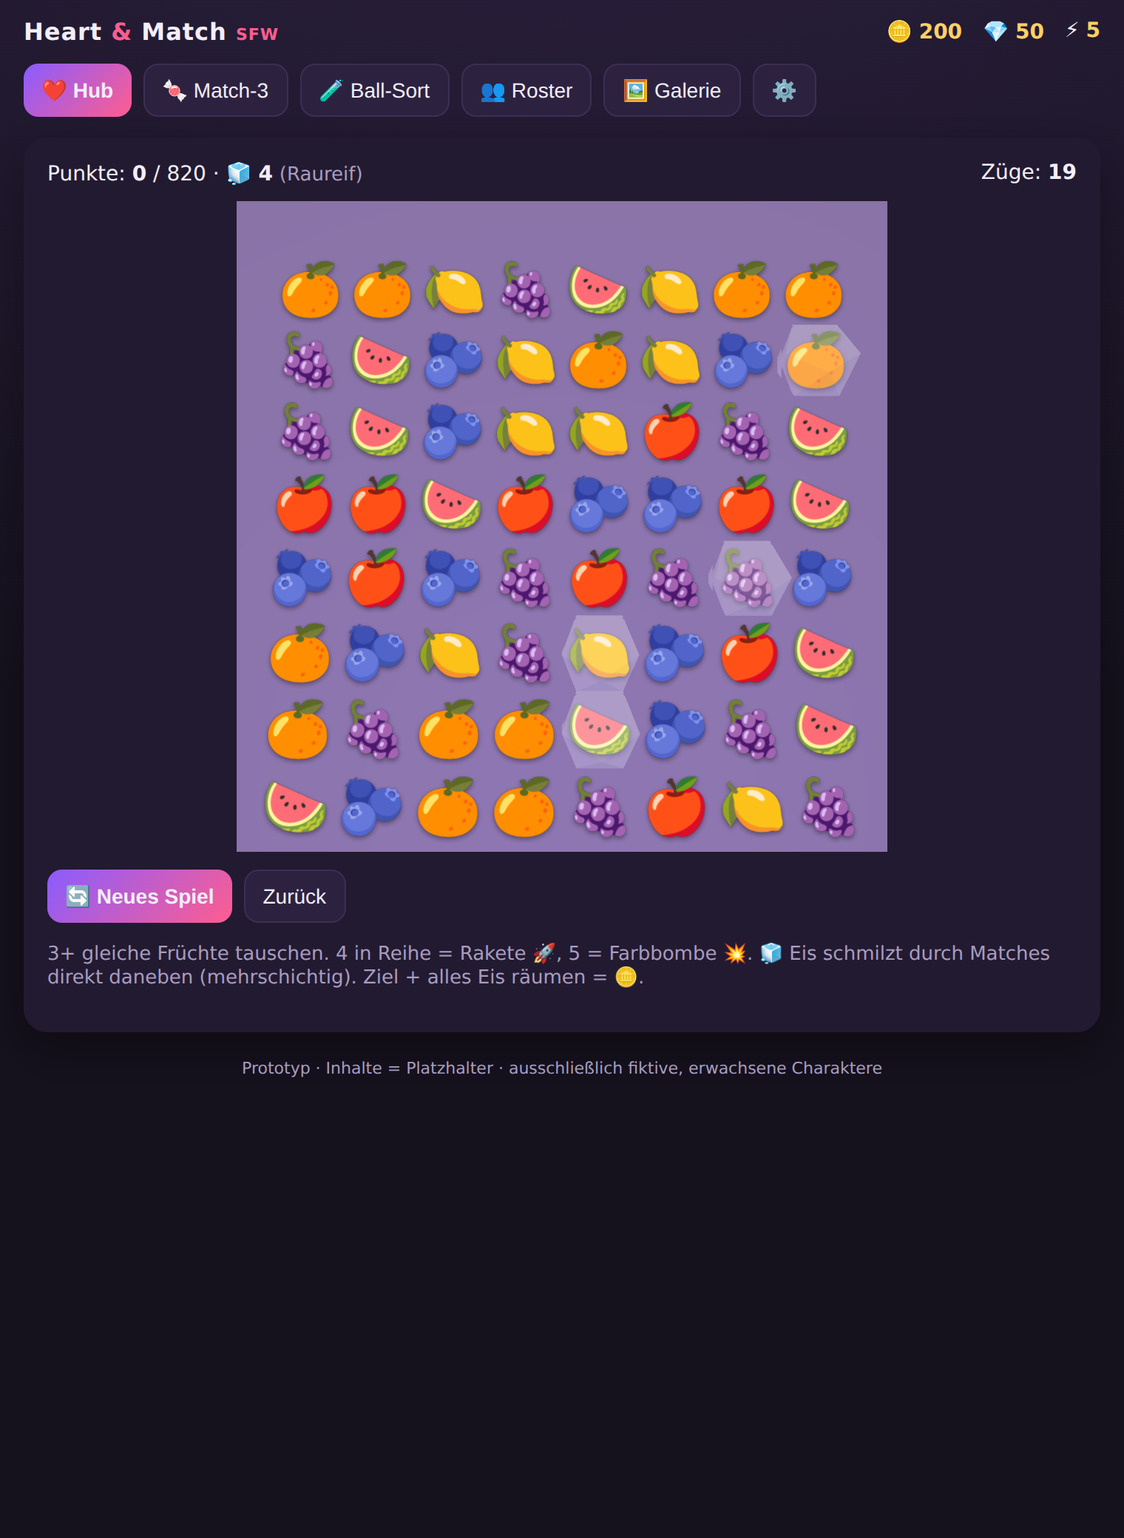
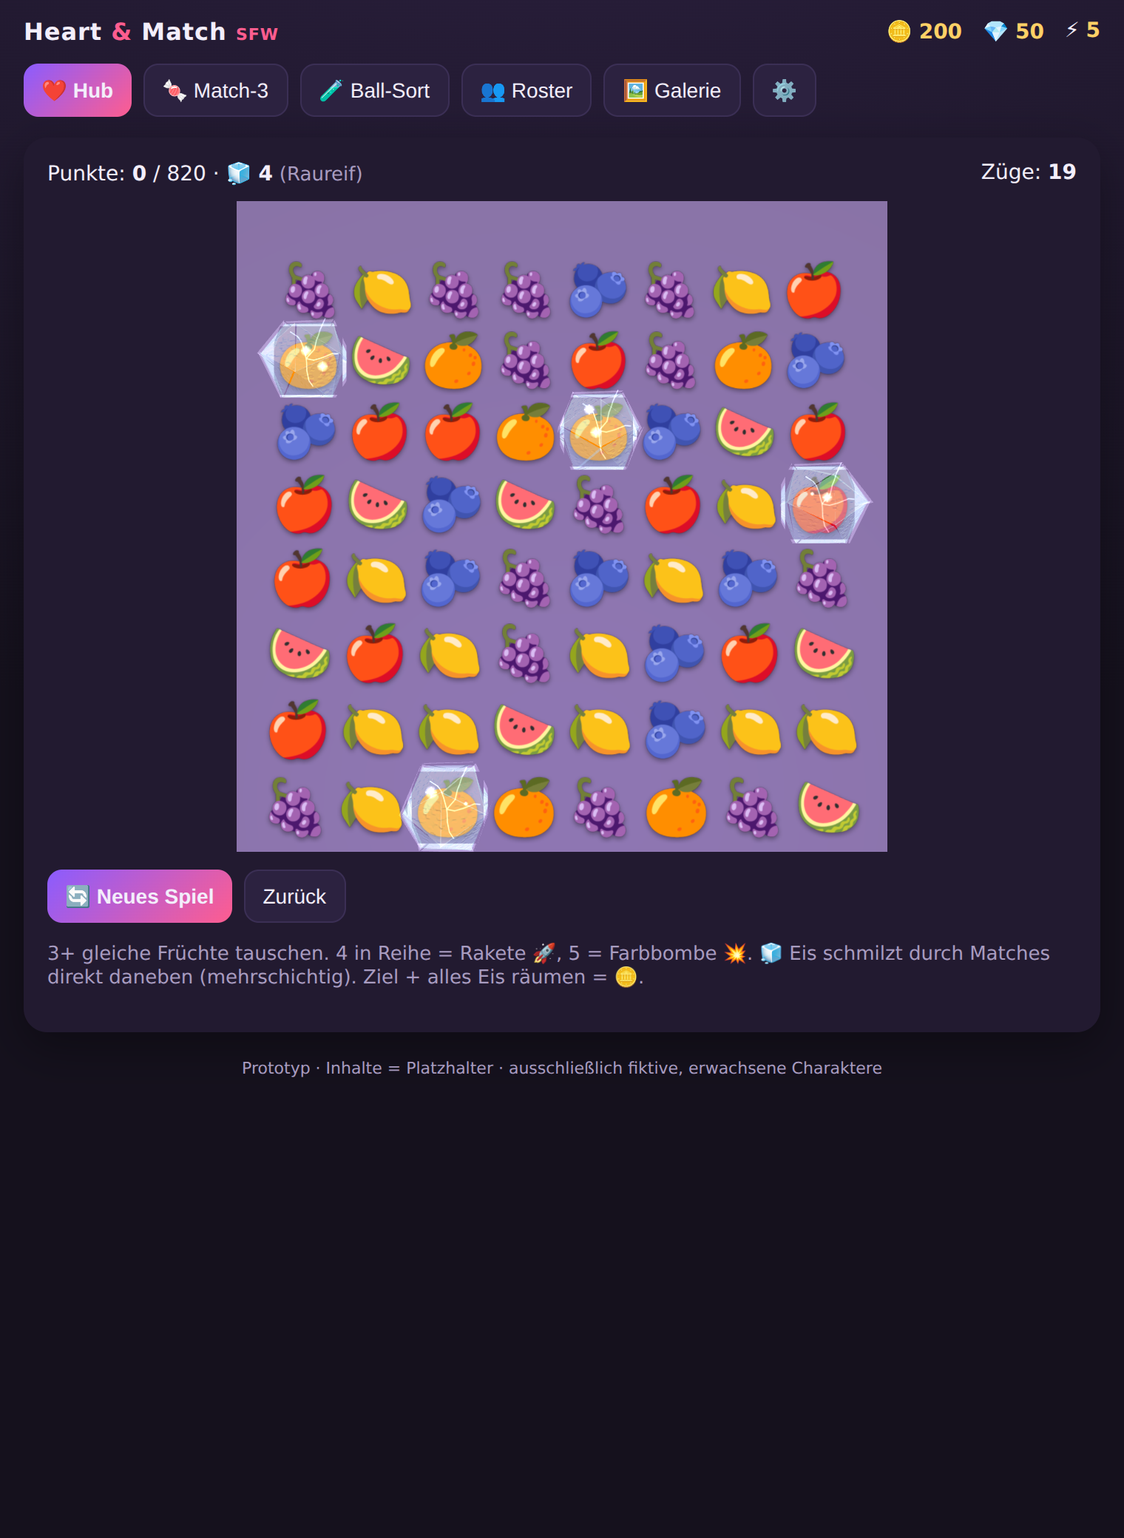
Redesign ice blocker (research-based) + architecture research dossier
Eis-Optik nach Recherche (Candy Crush Soda/Royal Match Spec + Three.js-Technik):
- Eis-Cube-Look: duenn=klar/blaeulich (Frucht sichtbar), dick=weiss/opak + Risse
- Facettierter Kristall (Frost-Bump), weisser Rim-Glanz (BackSide additiv),
  Riss-Overlay nimmt mit Schichten zu, Funkeln (Sparkle-Sprites)
- Shatter beim Brechen: Eis-Splitter (Tetraeder) + Schnee-Puff
- Level-Evolution bleibt: Raureif/Eis/Frost-Kristall/Permafrost

docs/RESEARCH_ARCHITECTURE.md: Code-/Engine-Architektur (Logik/View-Trennung,
Cascade-Pipeline, datengetriebene Level, deterministischer RNG, Tests) +
Live-Ops/Backend (Remote-Config, A/B, Analytics, Cloud-Save, Events, Addressables)

Changed region(s): [[0.2164, 0.1562, 0.773, 0.5625]]

diff --git a/web-prototype/games3d.js b/web-prototype/games3d.js
@@ -149,50 +149,146 @@ function newCell(type, x, y, dropFromTop, ice) {
   return cell;
 }
 
-// Eis-Stufen: ändern sich mit dem Level (Aussehen + max. Schichten/Zähigkeit).
-function iceStyleForLevel(lvl) {
-  if (lvl <= 2) return { key: "raureif",    label: "Raureif",       color: 0xdff1ff, emissive: 0x000000, detail: 0, scale: 0.70, maxLayers: 1, op: 0.28 };
-  if (lvl <= 4) return { key: "eis",        label: "Eis",           color: 0x9ad4ff, emissive: 0x113355, detail: 0, scale: 0.74, maxLayers: 2, op: 0.40 };
-  if (lvl <= 6) return { key: "frost",      label: "Frost-Kristall",color: 0xeaf6ff, emissive: 0x2277bb, detail: 1, scale: 0.78, maxLayers: 3, op: 0.44 };
-  return            { key: "permafrost", label: "Permafrost",    color: 0x6fa8ff, emissive: 0x1144aa, detail: 1, scale: 0.82, maxLayers: 4, op: 0.52 };
+// --- Canvas-Texturen für Eis (einmal erzeugt, geteilt) ---
+let _frostTex, _sparkleTex, _puffTex; const _crackTex = {};
+function frostTex() {
+  if (_frostTex) return _frostTex;
+  const s = 128, cv = document.createElement("canvas"); cv.width = cv.height = s;
+  const ctx = cv.getContext("2d"); ctx.fillStyle = "#808080"; ctx.fillRect(0, 0, s, s);
+  for (let i = 0; i < 1800; i++) { const v = (128 + (Math.random() - 0.5) * 190) | 0; ctx.fillStyle = `rgb(${v},${v},${v})`; ctx.fillRect((Math.random() * s) | 0, (Math.random() * s) | 0, 2, 2); }
+  _frostTex = new T.CanvasTexture(cv); _frostTex.wrapS = _frostTex.wrapT = T.RepeatWrapping; return _frostTex;
+}
+function crackTex(n) {
+  if (_crackTex[n]) return _crackTex[n];
+  const s = 256, cv = document.createElement("canvas"); cv.width = cv.height = s;
+  const ctx = cv.getContext("2d"); ctx.translate(s / 2, s / 2);
+  const branches = 2 + n * 2;
+  for (let b = 0; b < branches; b++) {
+    let a = Math.random() * 6.28, x = 0, y = 0; ctx.beginPath(); ctx.moveTo(0, 0);
+    const segs = 3 + ((Math.random() * 3) | 0);
+    for (let k = 0; k < segs; k++) { a += (Math.random() - 0.5) * 1.0; const len = 12 + Math.random() * 24; x += Math.cos(a) * len; y += Math.sin(a) * len; ctx.lineTo(x, y); }
+    ctx.lineWidth = 3.2; ctx.strokeStyle = "rgba(62,159,203,0.85)"; ctx.stroke();
+    ctx.lineWidth = 1.2; ctx.strokeStyle = "rgba(255,255,255,0.95)"; ctx.stroke();
+  }
+  _crackTex[n] = new T.CanvasTexture(cv); return _crackTex[n];
+}
+function sparkleTex() {
+  if (_sparkleTex) return _sparkleTex;
+  const s = 64, cv = document.createElement("canvas"); cv.width = cv.height = s; const ctx = cv.getContext("2d");
+  const g = ctx.createRadialGradient(s/2, s/2, 0, s/2, s/2, s/2);
+  g.addColorStop(0, "rgba(255,255,255,1)"); g.addColorStop(0.4, "rgba(220,245,255,0.5)"); g.addColorStop(1, "rgba(255,255,255,0)");
+  ctx.fillStyle = g; ctx.fillRect(0, 0, s, s);
+  ctx.strokeStyle = "rgba(255,255,255,0.9)"; ctx.lineWidth = 2;
+  ctx.beginPath(); ctx.moveTo(s/2, 4); ctx.lineTo(s/2, s-4); ctx.moveTo(4, s/2); ctx.lineTo(s-4, s/2); ctx.stroke();
+  _sparkleTex = new T.CanvasTexture(cv); return _sparkleTex;
+}
+function puffTex() {
+  if (_puffTex) return _puffTex;
+  const s = 64, cv = document.createElement("canvas"); cv.width = cv.height = s; const ctx = cv.getContext("2d");
+  const g = ctx.createRadialGradient(s/2, s/2, 0, s/2, s/2, s/2);
+  g.addColorStop(0, "rgba(255,255,255,0.9)"); g.addColorStop(1, "rgba(255,255,255,0)");
+  ctx.fillStyle = g; ctx.fillRect(0, 0, s, s); _puffTex = new T.CanvasTexture(cv); return _puffTex;
+}
+function jitter(geo, amt) {
+  const p = geo.attributes.position;
+  for (let i = 0; i < p.count; i++) p.setXYZ(i, p.getX(i) + (Math.random()-0.5)*amt, p.getY(i) + (Math.random()-0.5)*amt, p.getZ(i) + (Math.random()-0.5)*amt);
+  geo.computeVertexNormals();
 }
 
-// Eis-Blocker: durchscheinende Hülle um die Frucht; taut Schicht für Schicht durch benachbarte Matches.
+// Eis-Stufen: ändern sich mit dem Level (Aussehen + max. Schichten/Zähigkeit).
+function iceStyleForLevel(lvl) {
+  if (lvl <= 2) return { key: "raureif",    label: "Raureif",        emissive: 0x000000, detail: 0, scale: 0.74, maxLayers: 1 };
+  if (lvl <= 4) return { key: "eis",        label: "Eis",            emissive: 0x113355, detail: 0, scale: 0.76, maxLayers: 2 };
+  if (lvl <= 6) return { key: "frost",      label: "Frost-Kristall", emissive: 0x2277bb, detail: 1, scale: 0.80, maxLayers: 3 };
+  return              { key: "permafrost", label: "Permafrost",     emissive: 0x1144aa, detail: 1, scale: 0.84, maxLayers: 4 };
+}
+
+// Eis-Blocker nach Recherche-Spec: dünn=klar/bläulich (Frucht sichtbar), dick=weiß/opak + viele Risse.
+// Teile: facettierter Kern-Kristall (Frost-Bump) + weißer Rim-Glanz + Riss-Overlay + Funkeln.
 function setIce(cell, layers, style) {
   cell.ice = layers;
   if (style) cell.iceStyle = style;
   const st = cell.iceStyle || iceStyleForLevel(1);
   const g = cell.mesh;
-  if (g.userData.iceMesh) { g.remove(g.userData.iceMesh); g.userData.iceMesh.geometry.dispose(); g.userData.iceMesh = null; }
-  if (layers > 0) {
-    const shell = new T.Mesh(
-      new T.IcosahedronGeometry(st.scale, st.detail),
-      new T.MeshPhysicalMaterial({ color: st.color, emissive: st.emissive, emissiveIntensity: 0.35,
-        transparent: true, opacity: Math.min(0.85, st.op + (layers - 1) * 0.12),
-        roughness: 0.12, metalness: 0, clearcoat: 1, flatShading: true })
-    );
-    g.add(shell); g.userData.iceMesh = shell; g.userData.frozen = true;
-  } else { g.userData.frozen = false; }
+  if (g.userData.iceParts) g.userData.iceParts.forEach(p => { g.remove(p); if (p.geometry) p.geometry.dispose(); });
+  g.userData.iceParts = [];
+  if (layers <= 0) { g.userData.frozen = false; return; }
+  g.userData.frozen = true;
+
+  const t = Math.min(1, (layers - 1) / 3);            // 0 = dünn .. 1 = dick
+  const body = new T.Color(0x7fd3ee).lerp(new T.Color(0xffffff), t * 0.72);
+  const opacity = 0.4 + t * 0.5;                       // dünn durchsichtig -> dick opak
+
+  const geo = new T.IcosahedronGeometry(st.scale, st.detail); jitter(geo, 0.04);
+  const core = new T.Mesh(geo, new T.MeshPhysicalMaterial({
+    color: body, emissive: new T.Color(st.emissive), emissiveIntensity: 0.3,
+    transparent: true, opacity, roughness: 0.22, metalness: 0, clearcoat: 1, clearcoatRoughness: 0.12,
+    bumpMap: frostTex(), bumpScale: 0.05 + t * 0.07, flatShading: true, depthWrite: false, side: T.DoubleSide,
+  }));
+  core.renderOrder = 2; g.add(core); g.userData.iceParts.push(core);
+
+  const rim = new T.Mesh(geo.clone(), new T.MeshBasicMaterial({
+    color: 0xffffff, transparent: true, opacity: 0.16 + t * 0.12, blending: T.AdditiveBlending, side: T.BackSide, depthWrite: false }));
+  rim.scale.setScalar(1.07); rim.renderOrder = 2; g.add(rim); g.userData.iceParts.push(rim);
+
+  const crack = new T.Sprite(new T.SpriteMaterial({ map: crackTex(layers),
+    transparent: true, opacity: 0.45 + t * 0.4, blending: T.AdditiveBlending, depthWrite: false }));
+  crack.scale.setScalar(st.scale * 2.0); crack.position.z = 0.1; crack.renderOrder = 3;
+  g.add(crack); g.userData.iceParts.push(crack);
+
+  for (let i = 0; i < 2; i++) {
+    const sp = new T.Sprite(new T.SpriteMaterial({ map: sparkleTex(), transparent: true, blending: T.AdditiveBlending, depthWrite: false }));
+    sp.position.set((Math.random()-0.5)*st.scale, (Math.random()-0.5)*st.scale, 0.2);
+    sp.userData.sparkle = Math.random() * 6.28; sp.scale.setScalar(0.16); sp.renderOrder = 4;
+    g.add(sp); g.userData.iceParts.push(sp);
+  }
+}
+
+// Shatter beim endgültigen Brechen: Eis-Splitter + Schnee-Puff.
+function iceShatter(x, y, style) {
+  const p = worldPos(x, y); beep(880, .09, "triangle"); beep(1240, .06);
+  for (let i = 0; i < 11; i++) {
+    const m = new T.Mesh(new T.TetrahedronGeometry(0.12 + Math.random() * 0.08),
+      new T.MeshStandardMaterial({ color: 0xd6f1ff, transparent: true, opacity: 0.95, roughness: 0.2, metalness: 0, flatShading: true }));
+    m.position.set(p.x, p.y, 0.2); M3.scene.add(m);
+    M3.particles.push({ mesh: m, vx: (Math.random()-0.5)*0.42, vy: Math.random()*0.35+0.06, vz: (Math.random()-0.5)*0.2,
+      life: 0.5 + Math.random()*0.3, maxlife: 0.8, spin: (Math.random()-0.5)*0.45, shard: true });
+  }
+  for (let i = 0; i < 6; i++) {
+    const s = new T.Sprite(new T.SpriteMaterial({ map: puffTex(), transparent: true, opacity: 0.85, blending: T.AdditiveBlending, depthWrite: false }));
+    s.position.set(p.x + (Math.random()-0.5)*0.6, p.y + (Math.random()-0.5)*0.6, 0.3); s.scale.setScalar(0.3); M3.scene.add(s);
+    M3.particles.push({ mesh: s, vx: (Math.random()-0.5)*0.1, vy: Math.random()*0.06, vz: 0, life: 0.45, maxlife: 0.45, grow: true, base: 0.3 });
+  }
 }
 
 function tickM3() {
   if (!M3.renderer) return;
+  const now = performance.now() / 1000;
   M3.scene.traverse(o => {
     if (o.isGroup && o.userData && o.userData.body) {
       const u = o.userData;
       o.scale.x = lerp(o.scale.x, u.baseScale * u.ts, 0.25);
       o.scale.y = o.scale.x; o.scale.z = o.scale.x;
       if (u.tx !== undefined) { o.position.x = lerp(o.position.x, u.tx, 0.28); o.position.y = lerp(o.position.y, u.ty, 0.28); }
-      if (!u.frozen) o.rotation.y += u.spin;
       if (u.ring) u.ring.rotation.x += 0.05;
+    } else if (o.isSprite && o.userData && o.userData.sparkle !== undefined) {
+      o.scale.setScalar(0.14 + 0.07 * Math.sin(now * 5 + o.userData.sparkle));
     }
   });
-  // Partikel (Burst beim Auflösen)
+  // Partikel: Burst (Frucht), Eis-Splitter (shard) und Schnee-Puff (grow)
   for (let i = M3.particles.length - 1; i >= 0; i--) {
     const p = M3.particles[i]; p.life -= 0.016;
     if (p.life <= 0) { M3.scene.remove(p.mesh); M3.particles.splice(i, 1); continue; }
     p.vy -= 0.018; p.mesh.position.x += p.vx; p.mesh.position.y += p.vy; p.mesh.position.z += p.vz;
-    const s = Math.max(0.01, p.life * 2.2); p.mesh.scale.setScalar(s);
+    if (p.grow) {
+      const k = 1 - p.life / p.maxlife; p.mesh.scale.setScalar(p.base * (1 + k * 2.2));
+      if (p.mesh.material) p.mesh.material.opacity = 0.85 * (1 - k);
+    } else if (p.shard) {
+      p.mesh.rotation.x += p.spin; p.mesh.rotation.y += p.spin * 0.7;
+      if (p.mesh.material) p.mesh.material.opacity = Math.min(1, p.life / 0.3);
+    } else {
+      p.mesh.scale.setScalar(Math.max(0.01, p.life * 2.2));
+    }
   }
   // Screenshake (skaliert mit Combo/Spezial) — klingt schnell ab
   if (M3.shake > 0.001) {
@@ -284,9 +380,9 @@ function thawAround(clearedSet) {
       const cell = M3.grid[ny][nx];
       if (cell && cell.ice > 0) {
         seen.add(nk);
-        setIce(cell, cell.ice - 1);
-        burst(nx, ny, 0xcde7ff, 4); beep(520, .05, "triangle");
-        if (cell.ice === 0) { M3.iceLeft--; beep(760, .08); }
+        const next = cell.ice - 1;
+        if (next <= 0) { iceShatter(nx, ny, cell.iceStyle); setIce(cell, 0); M3.iceLeft--; }
+        else { setIce(cell, next); burst(nx, ny, 0xcde7ff, 4); beep(520, .05, "triangle"); }
       }
     });
   });

diff --git a/docs/RESEARCH_ARCHITECTURE.md b/docs/RESEARCH_ARCHITECTURE.md
@@ -1,0 +1,131 @@
+# Recherche: Technischer Aufbau erfolgreicher Puzzle-Games (Architektur & Live-Ops)
+
+> Ergänzung zu `RESEARCH_GAME_DESIGN.md` (Spiel-Design) und `RESEARCH_GAME_DESIGN.md`-Juice.
+> Hier: **wie solche Spiele technisch gebaut & betrieben werden** — Code-/Engine-Architektur (Unity)
+> und Live-Ops/Backend-Infrastruktur. Quellen mit Konfidenz-Flags: ✅ etabliert · ◐ Einzelquelle/Meinung.
+
+---
+
+## TEIL 1 — Code-/Engine-Architektur (Unity Match-3)
+
+**Das eine Leitprinzip (✅, in jeder Quelle):** **Logik-Modell strikt von der View (MonoBehaviours) trennen.**
+Reines C#-Modell (Brett, Matching, Scoring) ohne `UnityEngine`-Abhängigkeit → in eigener asmdef →
+voll unit-testbar ohne offenen Editor. Die View liest Modell-Events und spielt Tweens ab.
+
+### Kernbefunde (✅ wo nicht anders markiert)
+1. **Board = flaches 1D-Array hinter `Grid2D<T>`** (`x + y*w`), nicht mehrdimensional (Unity serialisiert
+   das nicht), nicht ECS (Brett ist winzig ~64–96 Zellen → OO-Klarheit gewinnt). View hält ein paralleles
+   `Grid2D<TileView>`.
+2. **Cascade-Pipeline als feste, animationsunabhängige Sequenz:** swap → findMatches → clear → gravity →
+   refill → re-check → bis stabil. MY.GAMES tickt deterministisch (20 Hz) mit geordneter Tick-Liste.
+   **Animation gated nur den Input, nie die Logik.** (deckt sich mit unserem `resolveBoard`.)
+3. **Match-Erkennung = Zwei-Pass-Scan** (Reihen, dann Spalten) → `List<Match>` (Position/Länge/Richtung),
+   **nicht** sofort clearen → ermöglicht Spezialstein-Erkennung + Batch-Clear.
+4. **Spezial-/Booster-Steine datengetrieben:** Spawn aus Match-Geometrie (4→Rakete, 5→Farbbombe, L/T→Bombe);
+   **Kombi-Matrix** `(TypeA×TypeB)→Effekt` als Lookup, nicht als switch. Unity „Gem Hunter Match" nutzt
+   ScriptableObjects für Booster.
+5. **Level datengetrieben (ScriptableObject/JSON) + eigener In-Editor-Level-Editor.** King-GDC-Talks drehen
+   sich ganz um Authoring-Tooling. ◐ Empfehlung: JSON-Export für Live-Ops-Hotupdates ohne App-Build.
+6. **Game-Flow = endliche Zustandsmaschine** (Idle→AwaitInput→Swap→Resolve→CheckGoals→Win/Lose); Input
+   während Resolve gesperrt. **Events/Observer** nur fürs Modell→View-Entkoppeln; Cascade selbst per direkten
+   Methodenaufrufen (Determinismus).
+7. **Animations-/Tween-Layer komplett view-seitig** (DOTween), per „busy"-Flag gated. Nie Positionen
+   mitten im Tween für Match-Erkennung lesen.
+8. **Deterministischer RNG:** **Instanz** `System.Random(seed)` statt statischem `UnityEngine.Random`;
+   Daily-Seed = Datums-Hash. MY.GAMES nutzt Fixed-Point für geräteübergreifende Replays + Replay-Log
+   (seed + Tick + Input + Checksum) zur Bug-Repro & Balancing.
+9. **Solvability:** nach jedem Settle `HasValidMove()` (jeden Swap testen, lokal prüfen, zurück) → sonst
+   `Shuffle(seed)`. Volle Level-Lösbarkeit ist NP-hart, „gibt's ≥1 Zug" ist trivial.
+10. **Testing:** EditMode-Unit-Tests aufs reine Modell (Match/Gravity/Refill/Combo/RNG). King fährt
+    **AI-Bots**, die Level tausende Male spielen → Schwierigkeits-/Winrate-Metriken (durch seedbares Modell möglich).
+
+### Empfohlene Unity-Architektur (zwei asmdefs erzwingen die Grenze)
+```
+/Core  (Match3.Core.asmdef — reines C#, KEINE UnityEngine-Gameplay-Deps, voll getestet)
+  Board/        Grid2D<T>, Cell/TileState, Board
+  Resolution/   MatchFinder, CascadeResolver, GravitySystem, RefillSystem, SolverUtils
+  Specials/     BoosterEffect, CombinationMatrix
+  Flow/         GameStateMachine, GoalTracker
+  Services/     IRandom + SeededRandom
+  Events/       IBoardEvent records (OnMatch/OnCleared/OnSpawn/OnFall/OnBoosterSpawn)
+  -> Output: geordneter, animationsunabhängiger ResolveStep-Eventstream
+/Game  (Match3.Game.asmdef — MonoBehaviours, referenziert Core)
+  View/         BoardView, TileView (DOTween), AnimationQueue (busy-Flag), InputController
+  Data/         LevelDefinition, LevelList, BoosterDefinition, GemDefinition (ScriptableObjects)
+  Bootstrap/    LevelLoader (SO/JSON -> Core.Board)
+  VFX/Audio/UI  (Event-Queue-Pattern hier ok)
+/Editor (Match3.Editor.asmdef) LevelEditorWindow (Grid-Painter -> LevelDefinition/JSON)
+/Tests  (Match3.Tests.asmdef, EditMode) MatchFinder/Cascade/Gravity/BoosterCombo/Solver/Rng
+```
+**Zuerst definieren:** `IRandom`, `IBoard` (read-only), `ResolveStep`/Event-Record, `IBoosterEffect`.
+**Invarianten:** (1) Core löst Cascade synchron+deterministisch, View spielt ab; (2) Animation gated nur
+Input; (3) ein seedbarer RNG, Daily=Datums-Hash; (4) nach Settle `HasValidMove()`→sonst Shuffle;
+(5) Specials/Level = Daten, nicht Code-Branches.
+
+*Quellen:* MY.GAMES „Divide and Conquer" (bestes Einzelstück), Catlike Coding Match-3, Unity „Gem Hunter
+Match", Azumo, Game Programming Patterns (State/Event Queue), King-GDC (Level-Design/AI-Bots), arXiv 1403.5830 (NP-Härte).
+
+---
+
+## TEIL 2 — Live-Ops / Backend-Infrastruktur
+
+**Leitlinie (✅):** Top-Match-3 (Royal Match, Candy Crush, Homescapes) sind **von Tag 1 auf Live-Ops
+ausgelegt**, fahren **4–6 gleichzeitige Events**, und liefern das **meiste als Server-Config + Download-
+Content statt App-Update**. Der Client ist ein „dummer Renderer" server-getriebener Config. ◐ Deconstructor
+of Fun: der Wettbewerbsvorteil ist **Live-Ops-Velocity/Tooling**, nicht neue Kernmechanik.
+
+### Kernbefunde
+1. **Remote-Config (Fundament):** Dashboard-Keys → SDK holt bei App-Start → Code liest per Key → mit
+   **bundled Safe-Defaults** als Fallback. Tuning von Saison-Content, Balancing, Monetarisierung, Ads,
+   Schwierigkeit ohne Binary-Update. **Pro Segment** (Whales/Churner/Land/Version) verschiedene Config.
+2. **A/B-Testing** liegt **auf** der Config (Varianten-Keys überschreiben Basis). Match-3-Difficulty-Tests:
+   3-Gruppen (aktuell/leichter/neu); Metriken: Winrate (±Booster), Versuche/Completion, ausgegebene Währung,
+   7-Tage-Churn; ~1.000 Completions für Signifikanz. **Leichter ≠ besser:** senkt Churn, kann aber ARPU senken.
+3. **DDA (Dynamic Difficulty)** via Seed-Determinismus + unmerkliche Tweaks (Farb-Spawn −20–30 %, Hilfe nach
+   X verbrauchten Zügen). EA: bis +9 % Engagement bei neutraler Monetarisierung.
+4. **Analytics-Taxonomie (✅):** session start/end, business (IAP+Receipt), resource (Währung Quelle/Senke),
+   progression (level start/fail/complete + Versuch#/Züge/Zeit), design/custom (Funnel/Ads). KPIs: D1/D7/D30,
+   DAU, Session-Länge, Conversion, ARPDAU, LTV. Match-3-Benchmarks: D1 40–50 %, D7 ~20 %, D30 ~10 %; Hybrid-
+   Casual ARPDAU $0,15–0,50. Jedes Event trägt: player_id, session_id, app_version, platform, segment, Experiment-Variante.
+5. **Cloud-Save/Account & Anti-Cheat:** kompetitive Surfaces (Leaderboards) **server-authoritativ**; Single-
+   Player-Progress kann client-seitig sein. ◐ Pragmatisch: Server-Plausibilitätscheck (Score ≤ theoret. Max
+   pro Level/Seed), Rate-Limiting, server-authoritative Währung statt voller Replay-Validierung.
+6. **Events/Battle-Pass/Leaderboards = Config + Assets:** generisches Schema
+   `{event_id,type,start,end,segment,rules_config,reward_table,asset_bundle_ref}`; Engine generisch, Event = Daten.
+7. **Asset-Delivery:** Unity **Addressables** + Remote-Catalog (JSON+Hash), nur geänderte Bundles laden +
+   cachen; local (Onboarding/Core) vs remote (on-demand); neuer Content via immutable Release + „latest"-Badge.
+8. **Backend-Plattform:** PlayFab (komplett, aber Free-Tier 03/2026 stark gekürzt), Firebase (Auth/Remote-
+   Config/Analytics, aber keine Game-Leaderboards/Economy), Nakama (open-source, self-host, authoritativ).
+   ◐ Für uns: **eigene Spiel-Logik in FastAPI** (Economy/Progression/Config-Resolver/Events/A/B), Commodity
+   (Analytics-Pipeline, Asset-CDN) zukaufen statt nachbauen.
+9. **Zwei Release-Tracks:** (1) Content/Config-Track (jederzeit, ohne Store-Review) entkoppelt von
+   (2) Binary-Track (Store-Kadenz), versioniert gegen min-app-version.
+
+### Empfohlene Minimal-Architektur (unser Unity-Client + FastAPI)
+**Client-Boot:** Device-Auth → Config holen (Segment+Experiment-aufgelöst) → aktive Events → Addressables-
+Catalog-Check → geänderte Bundles laden. Bundled Safe-Defaults + lokaler Core/Onboarding → offline spielbar.
+**FastAPI + Postgres + Redis:** (1) Auth/Account (Device→Apple/Google/E-Mail, Cloud-Save), (2) Config-Resolver
+(layered: base→segment→A/B, versioniert), (3) Experiment-Service (`hash(player_id+exp_id)`→Variante, auf Events
+gestempelt), (4) **server-authoritative** Economy/Progression (Postgres = Source of Truth, Client schickt
+Aktionen/Ergebnisse, Server validiert), (5) Events/Season (generisches Schema), (6) Leaderboard (Redis Sorted
+Sets pro Event/Season), (7) Analytics-Ingest (`/events` batch → D1/D7/D30/ARPDAU/Difficulty-Metriken),
+(8) Content-Delivery (Addressables-Catalog + gehashte Bundles auf CDN, Channel→Release-Badge).
+**Build-Reihenfolge:** Config-Resolver + Safe-Default-Client zuerst → Analytics+A/B → server-auth Economy →
+Events/Leaderboards → Addressables-Pipeline.
+
+*Quellen:* GameAnalytics (Remote-Config/A/B), Gamigion (Match-3 DDA), Unity Addressables/CCD-Docs, LEADR
+(Backend-Vergleich 2026), PlayFab-Free-Tier-Kürzung, Galaxy4Games (4–6 Events), PlayFab/GDC LiveOps,
+Deconstructor of Fun (LiveOps-Velocity), GameAnalytics-Event-Taxonomie, Playio/Tap-Nation (KPIs/Benchmarks).
+
+> **Caveat:** Die *internen* Architekturen von King/Dream Games/Playrix sind nicht öffentlich. Diese Befunde
+> sind belastbare **Branchen-Muster** aus Plattform-Docs, GDC-Talks und Deconstructions — keine bestätigten
+> Interna der konkreten Studios.
+
+---
+
+## Bezug zu unserem Projekt (Status)
+- ✅ Unser FastAPI-Backend folgt bereits dem Muster (Auth, Save, server-seitige Rewards, Live-Ops-Config-Stub
+  in `backend/app/api/liveops.py`).
+- ✅ Web-Prototyp & geplanter Unity-Client trennen Logik/View (reine Resolver-Logik, seedbar) — passt zu Teil 1.
+- ▶ Nächste sinnvolle Schritte aus dieser Recherche: Config-Resolver segment-/A/B-fähig machen, Analytics-Event-
+  Taxonomie definieren, Level als JSON-Daten + späterer Editor, Addressables/Asset-Channel fürs CDN.

diff --git a/web-prototype/README.md b/web-prototype/README.md
@@ -24,10 +24,12 @@ python3 -m http.server 8080
 - **Match-3 (echte Früchte 🍎🍊🍋🍉🫐🍇)** auf 3D-Spielfläche: 8×8, Tauschen, Kaskaden,
   4er→Rakete 🚀, 5er→Farbbombe 💥, Ziel → 🪙.
   **Juice:** Partikel-Burst beim Auflösen, Screenshake + Hit-Stop beim Spezialstein-Zünden, Combo-Tonleiter.
-  **Hindernis 🧊 Eis** (mehrschichtig, vereiste Früchte sind nicht bewegbar und schmelzen Schicht für
-  Schicht durch Matches direkt daneben). **Das Eis entwickelt sich mit dem Level:**
-  Raureif (L1–2) → Eis (L3–4) → Frost-Kristall (L5–6) → Permafrost (L7+) — jeweils anderes Aussehen
-  und mehr Schichten. Level gewonnen erst, wenn Ziel erreicht **und** alles Eis geräumt ist.
+  **Hindernis 🧊 Eis** (recherche-basiertes Design): vereiste Früchte sind nicht bewegbar und schmelzen
+  Schicht für Schicht durch Matches direkt daneben. **Look nach Genre-Spec:** dünnes Eis = klar/bläulich
+  (Frucht sichtbar), dickes Eis = weiß/opak + viele Risse; facettierter Kristall mit Frost-Kanten, Funkeln,
+  und **Shatter-Effekt** (Splitter + Schnee-Puff) beim Brechen. **Entwickelt sich mit dem Level:**
+  Raureif (L1–2) → Eis (L3–4) → Frost-Kristall (L5–6) → Permafrost (L7+). Level gewonnen erst, wenn Ziel
+  erreicht **und** alles Eis geräumt ist.
 - **Ball-Sort**: Röhren sortieren, Undo, Lösungserkennung → 🪙.
 - **Roster**: alle Charaktere mit Persönlichkeit/Tier, freigeschaltet/gesperrt, Wechsel per Tap.
 - **Galerie**: Belohnungs-Tiers pro Charakter mit „NEU"-Badges.
